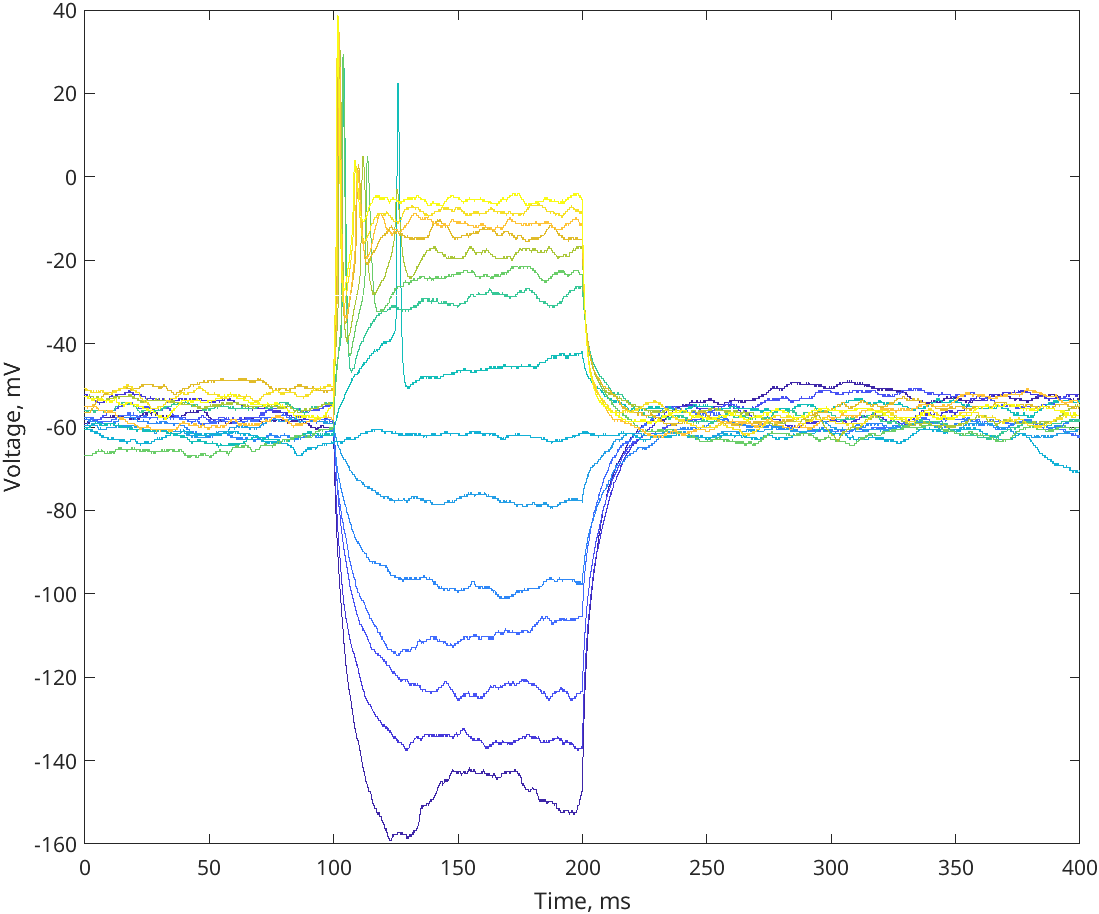
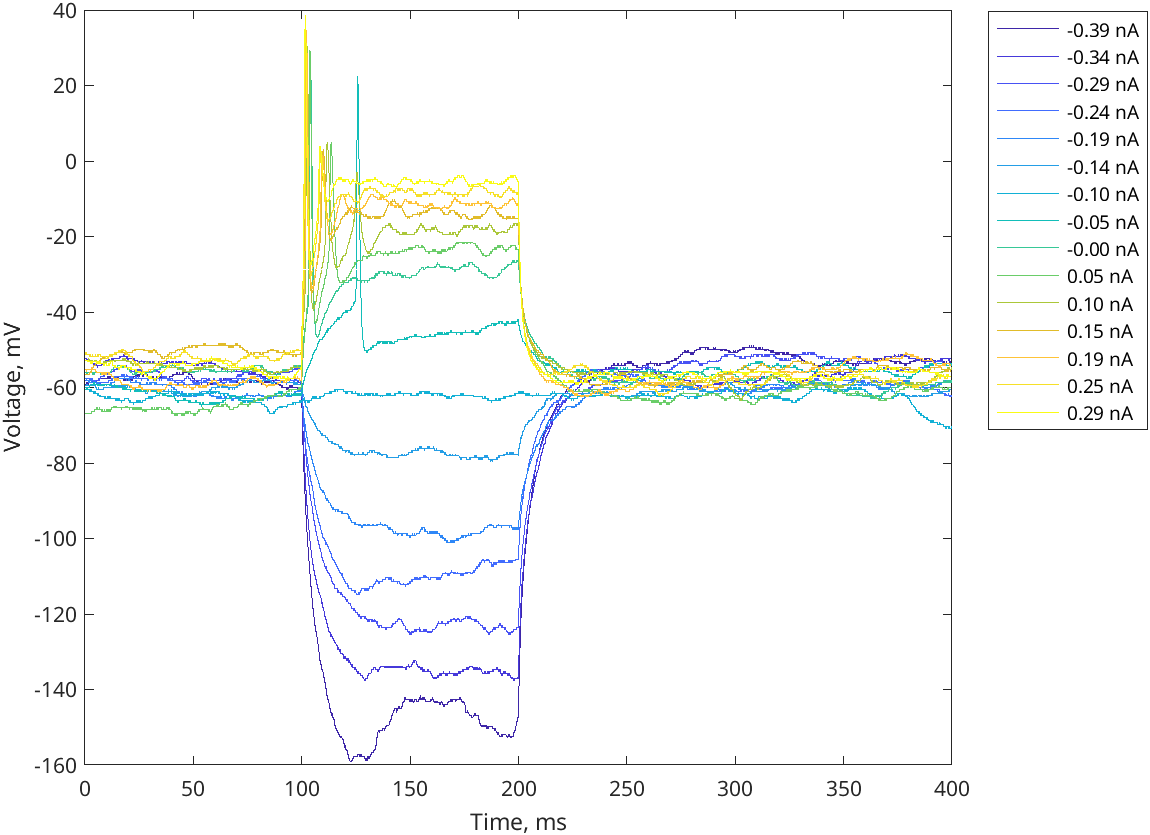
C and R calculations added

diff --git a/analysisScript.m b/analysisScript.m
@@ -2,33 +2,46 @@
 %% Load in the timeseries
 [p,d] = uigetfile();
 ts = load(fullfile(d,p)); % Y entries contain the data abnout the current and volatge change
-%%
+%% Constants
+fs = string(fieldnames(ts));
+fs = fs(contains(fs, "Y"));
+NUM_SIGNALS = numel(fs);
+
 sf = 20000; %20kHz 
 currentStart = 2000;
+currentStop = 4000;
+%% Retrieve currents and volatges
+t_ms = ts.T1 * 1000;
+
+current_traces = nan(NUM_SIGNALS, numel(t_ms));
+currents = nan(NUM_SIGNALS, 1);
+voltages = nan(NUM_SIGNALS, numel(t_ms));
+
+for f = 1:NUM_SIGNALS
+    rec = ts.(fs(f));
+    current_traces(f, :) = rec(:, 1);
+    currents(f) = mean(current_traces(f, currentStart:currentStop)); 
+    voltages(f, :) = rec(:, 2);
+end
+
+
 %%
 % Show the profile of the stimulation
 volt_f = figure;
 curr_f = figure;
-fs = string(fieldnames(ts));
-fs = fs(contains(fs, "Y"));
+
 cmap = colormap(parula(15));
-t_ms = ts.T1 * 1000;
-currents = nan(numel(fs), 1);
-voltages = nan(numel(fs), numel(t_ms));
 
-for f = 1:numel(fs)
-    rec = ts.(fs(f));
-
-    currents(f) = mean(rec(2000:4000, 1)); %
-    voltages(f, :) = rec(:, 2);
-
+for f = 1:NUM_SIGNALS
+    
+ 
     %voltage
     figure(volt_f)
-    plot(t_ms, rec(:, 2), 'Color', cmap(f, :), "DisplayName", sprintf("%1.2f pA",currents(f))); hold on; 
+    plot(t_ms, voltages(f, :), 'Color', cmap(f, :), "DisplayName", sprintf("%1.2f nA",currents(f))); hold on; 
 
     %current
     figure(curr_f)
-    plot(t_ms, rec(:, 1), 'Color', cmap(f, :)); hold on; 
+    plot(t_ms, current_traces(f, :), 'Color', cmap(f, :)); hold on; 
     plot([200, 200], [- 0.3, 0.3], 'k--'); hold on;
     plot([100, 100], [- 0.3, 0.3], 'k--'); hold on;
 
@@ -36,31 +49,85 @@ for f = 1:numel(fs)
 
 end
 
-ylabel("Current, pA");
+ylabel("Current, nA");
 xlabel("Time, ms"); 
-exportgraphics(gcf, "Current.png")
 
 figure(volt_f)
 ylabel("Voltage, mV");
 xlabel("Time, ms"); 
 legend('Location','northeastoutside');
-exportgraphics(gcf, replace(p, ".mat", "")+"_Voltage.png")
+
+%% Save figures
+figure(curr_f);
+exportgraphics(gcf, "Current.png");
+figure(volt_f);
+exportgraphics(gcf, replace(p, ".mat", "")+"_Voltage.png");
+
 
 
 %% Find the baseline values
 baselines = mean(voltages(:, 1:currentStart), 2); % mean of rows, cause every row is a timeseries
-voltages = movmean(voltages, 200, 2); % 200 datapoints window = 10 ms smoothing
+smoothed_voltages = movmean(voltages, 100, 2); % 400 datapoints window = 20 ms smoothing
+
 
 % Find which voltage traces contain APs and how many APs they contain
-% What do we base our jusgmnet on? Derivative (extremely big shoot up)
+% What do we base our judgment on? Derivative (extremely big shoot up)
 
-%% Calculate the AP amplitude
+%% Calculate the AP amplitude & threshold
 
+% Find the traces with APs
+
+% Threshold - sharp elbow wher ewe go from slwoly charging to spiking
 
 %% Calculate the firing rate
-%% Calculate the tau (time constant) via fitting an exponential
-% tau = time at which two thirds of the signal has lost
 
 
-%% Calculate the Membrane resistance based on V-I graph
+%% Calculate the tau (time constant) via finding 2/3 of the exponential decay
+% tau = time at which two thirds of the signal has been lost
 
+[~, max_ix] = max(abs(smoothed_voltages - baselines), [], 2); % find teh biggest deviation from the baseline
+max_v = nan(NUM_SIGNALS, 1);
+two_thirds = nan(NUM_SIGNALS, 1);
+tau = nan(NUM_SIGNALS, 1);
+intersection_ixs = nan(NUM_SIGNALS, 1);
+
+for ix = 1:NUM_SIGNALS
+    max_v(ix) = smoothed_voltages(ix, max_ix(ix));
+    two_thirds(ix) = (max_v(ix) - baselines(ix)) * 2/3 + baselines(ix);
+
+    % find the intersection of voltages and the two_thirds
+    [~, intersection_ix] = min(abs(smoothed_voltages(ix, :) - two_thirds(ix)));
+    intersection_ixs(ix) = intersection_ix;
+    tau(ix) = intersection_ix / sf; % convert tau to seconds
+
+end
+
+
+
+%% Calculate the Membrane resistance R based on the segment of the voltage trace where dV/dt = 0 (all current is through R)
+
+stimulationSegment = smoothed_voltages(:, currentStart:currentStop);
+
+% take a row-wise temporal derivative - find dV/dt approx 0
+mask = [abs(diff(stimulationSegment, 1, 2)) < 0.01 false(NUM_SIGNALS, 1)]; % padded with logical 0 
+
+% only take last 25 ms of the stimulation window
+mask(1:round(3/4*numel(mask))) = false;
+
+% calculate R as mean voltage in places where dV/dt = 0 divided by
+% stimulation current
+R = mean(stimulationSegment .* mask, 2) ./ currents;
+
+
+% Plot the voltage traces with the regions that 
+if true
+    mask_f = figure();
+    for i = 1:NUM_SIGNALS
+        masked = stimulationSegment(i, :);
+        masked(mask(i,:)) = nan;
+        plot(masked); hold on;
+    end
+end
+%% Calculate C as tau/R
+C = tau./R;
+%% Plot voltage traces, regions taken as dV/dt, intersections for the tau calculation and AP
